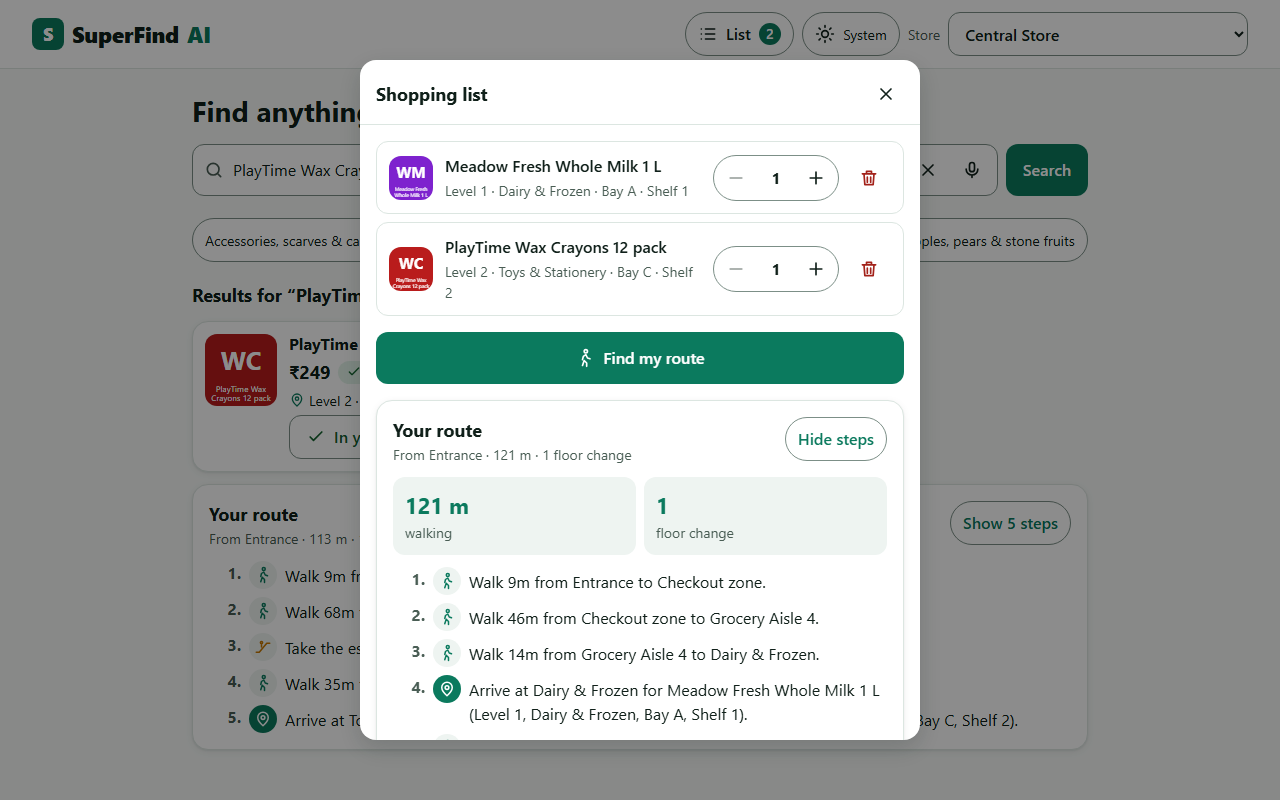
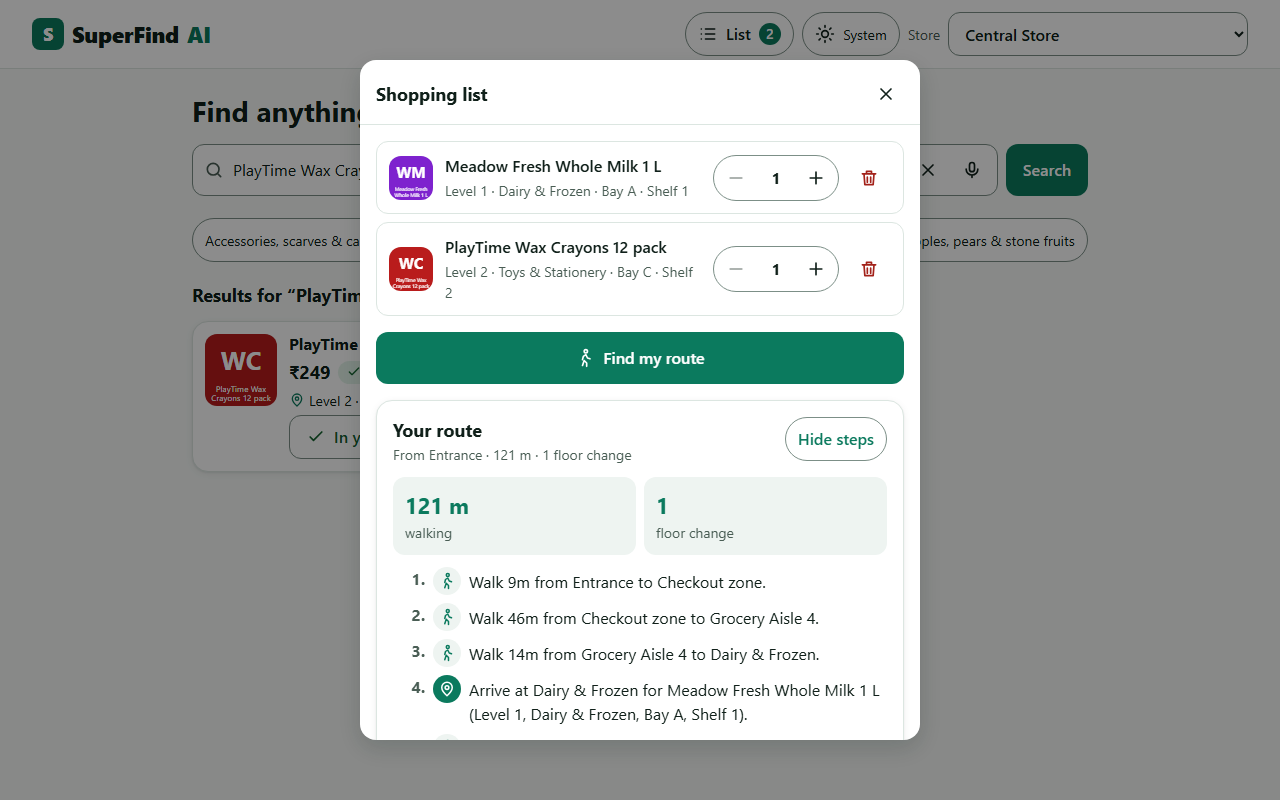
Web smoke test: search results show no route; list route and map unchanged; new screenshots

diff --git a/web/e2e/smoke.spec.ts b/web/e2e/smoke.spec.ts
@@ -1,7 +1,7 @@
 import { expect, test, type Page } from "@playwright/test";
 import { fileURLToPath } from "node:url";
 
-// The one smoke test: home, store switch, search "milk", add to the list, "Find my route" with its map.
+// The one smoke test: home, store switch, search "milk" (cards only, no route), add to the list, "Find my route" with its map.
 // Each project (360/1280 px, light/dark) saves screenshots to web/screenshots/smoke/.
 const UPSTAIRS = "PlayTime Wax Crayons 12 pack"; // a Level 2 product in Central Store
 const SHOTS = fileURLToPath(new URL("../screenshots/smoke/", import.meta.url));
@@ -30,7 +30,7 @@ test("home, store switch, search, list and route with map", async ({ page }, inf
   await store.selectOption("central");
   await expect(page.getByRole("heading", { level: 1, name: "Find anything in Central Store" })).toBeVisible();
 
-  // Search "milk": the store asks which milk; choosing one shows its card and a collapsed route.
+  // Search "milk": the store asks which milk; choosing one shows only its card: no route, steps or map.
   const box = page.getByRole("combobox", { name: "Search products" });
   await box.fill("milk");
   await box.press("Enter");
@@ -38,7 +38,10 @@ test("home, store switch, search, list and route with map", async ({ page }, inf
   await page.locator(".sf-option").first().click();
   const card = page.getByTestId("result-card").first();
   await expect(card).toHaveAttribute("data-status", "available");
-  await expect(page.getByRole("region", { name: "Your route" })).toBeVisible();
+  const results = page.getByRole("region", { name: "Results" });
+  await expect(results.getByRole("region", { name: "Your route" })).toHaveCount(0);
+  await expect(results.getByRole("button", { name: /^(Show \d+ steps|Hide steps)$/ })).toHaveCount(0);
+  await expect(results.getByRole("img", { name: /^Map of / })).toHaveCount(0);
   await noSidewaysScroll(page);
   await shot("02-results");
 
